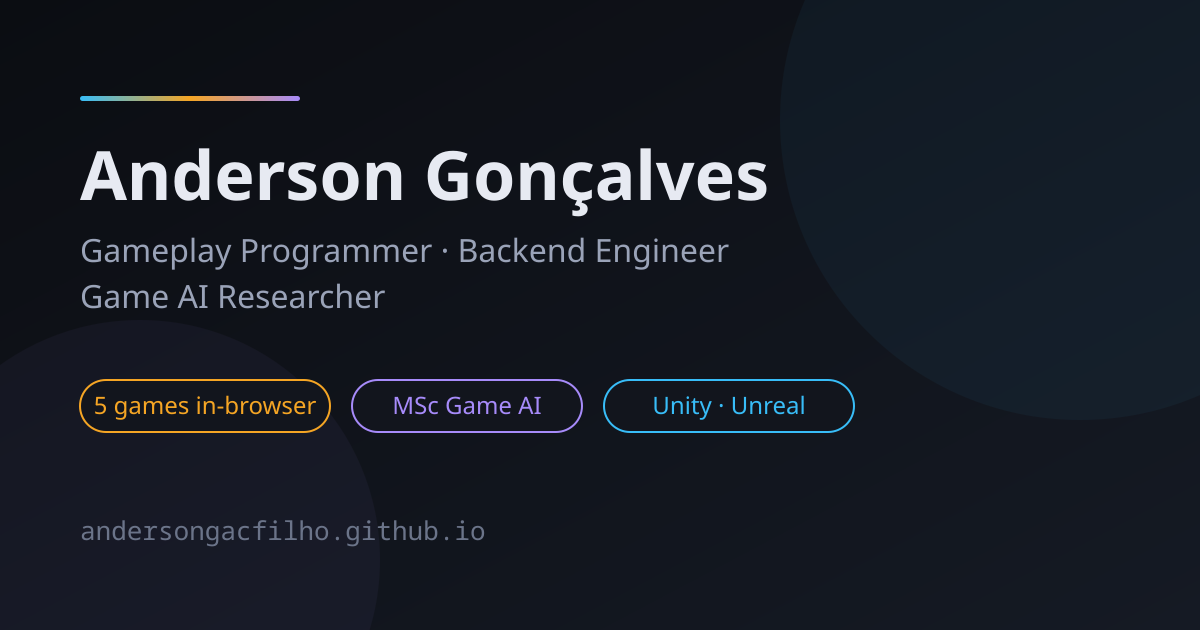
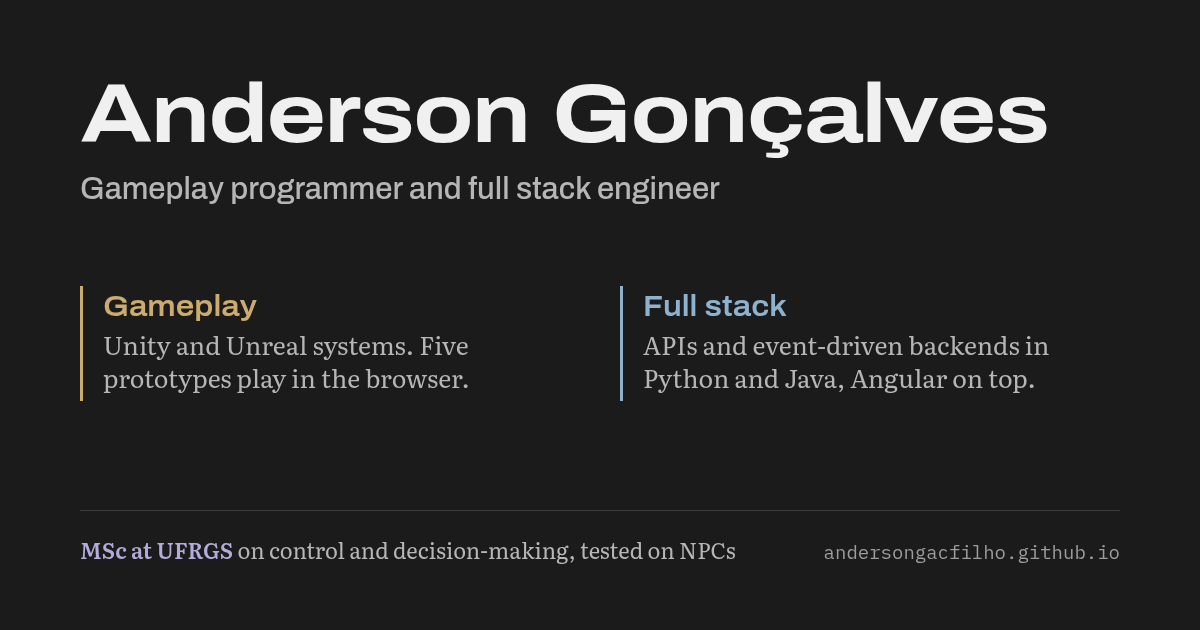
feat(og): the link preview reads for gameplay and for full stack
The old cover said "Backend Engineer · Game AI Researcher", never full
stack, and still had the rounded pills, gradient and navy of the previous
identity. The new one gives gameplay and full stack two columns of the
same size in the track colours, with the MSc underneath, on the neutral
grey with Archivo, Literata and square corners.

It is now rendered from scripts/og-cover.html by a headless Chromium
(npm run render:og), reading tokens.css and the site fonts directly, and
the script fails if the PNG is not 1200x630. og:image:alt follows the new
wording; nothing else in the <head> changed.

diff --git a/scripts/og-cover.html b/scripts/og-cover.html
@@ -1,0 +1,129 @@
+<!doctype html>
+<!--
+  Fonte da public/og-cover.png, a prévia que o LinkedIn mostra quando alguém
+  cola o link. Não é página do site: o render-og-cover.mjs abre este arquivo
+  num Chromium headless em 1200×630 e salva a captura.
+
+  Tokens e fontes vêm direto de src/styles e public/fonts, por caminho
+  relativo. Trocou um hex no tokens.css, roda `npm run render:og` e a capa
+  acompanha.
+
+  Gameplay e full stack dividem a linha em duas colunas do mesmo tamanho,
+  porque a mesma prévia vai em candidatura das duas. A pesquisa vem embaixo,
+  como no hero.role, que põe o mestrado depois das duas funções.
+
+  Tema escuro fixado em data-theme: o headless pode anunciar preferência
+  clara, e a capa não pode depender disso.
+-->
+<html lang="en" data-theme="dark">
+<head>
+<meta charset="utf-8" />
+<link rel="stylesheet" href="../src/styles/tokens.css" />
+<style>
+  @font-face {
+    font-family: 'Archivo';
+    font-weight: 100 900;
+    font-stretch: 62% 125%;
+    src: url('../public/fonts/archivo-latin.woff2') format('woff2');
+  }
+  @font-face {
+    font-family: 'Literata';
+    font-weight: 200 900;
+    src: url('../public/fonts/literata-latin.woff2') format('woff2');
+  }
+  @font-face {
+    font-family: 'IBM Plex Mono';
+    font-weight: 400;
+    src: url('../public/fonts/ibm-plex-mono-latin-400.woff2') format('woff2');
+  }
+
+  html, body { margin: 0; }
+  body {
+    width: 1200px;
+    height: 630px;
+    box-sizing: border-box;
+    padding: 72px 80px 64px;
+    display: flex;
+    flex-direction: column;
+    background: var(--bg);
+    color: var(--text);
+    font-family: var(--font);
+    -webkit-font-smoothing: antialiased;
+    overflow: hidden;
+  }
+
+  h1 {
+    margin: 0 0 14px;
+    font-family: var(--display);
+    font-size: 84px;
+    font-stretch: 118%;
+    font-weight: 700;
+    letter-spacing: -0.015em;
+    line-height: 1.02;
+  }
+  .role {
+    margin: 0;
+    font-family: var(--display);
+    font-size: 31px;
+    font-weight: 500;
+    color: var(--text-dim);
+  }
+
+  /* o mesmo filete de 3px das trilhas da home: canto vivo, cor da trilha */
+  .tracks {
+    display: grid;
+    grid-template-columns: 1fr 1fr;
+    gap: 0 40px;
+    margin-top: 64px;
+  }
+  .track {
+    border-left: 3px solid var(--track);
+    padding: 4px 0 6px 20px;
+  }
+  .track strong {
+    display: block;
+    margin-bottom: 6px;
+    font-family: var(--display);
+    font-size: 30px;
+    font-stretch: 108%;
+    font-weight: 600;
+    color: var(--track);
+  }
+  .track span { font-size: 25px; line-height: 1.35; color: var(--text-dim); }
+
+  .foot {
+    margin-top: auto;
+    display: flex;
+    justify-content: space-between;
+    align-items: baseline;
+    gap: 40px;
+    padding-top: 22px;
+    border-top: 1px solid var(--border);
+  }
+  /* uma linha só: quebrada, deixava "NPCs" sozinho embaixo */
+  .research { font-size: 22px; white-space: nowrap; color: var(--text-dim); }
+  .research b { font-weight: 600; color: var(--research); }
+  .url { font-family: var(--mono); font-size: 19px; white-space: nowrap; color: var(--text-faint); }
+</style>
+</head>
+<body>
+  <h1>Anderson Gonçalves</h1>
+  <p class="role">Gameplay programmer and full stack engineer</p>
+
+  <div class="tracks">
+    <p class="track" style="--track: var(--gamedev)">
+      <strong>Gameplay</strong>
+      <span>Unity and Unreal systems. Five prototypes play in the browser.</span>
+    </p>
+    <p class="track" style="--track: var(--fullstack)">
+      <strong>Full stack</strong>
+      <span>APIs and event-driven backends in Python and Java, Angular on top.</span>
+    </p>
+  </div>
+
+  <div class="foot">
+    <span class="research"><b>MSc at UFRGS</b> on control and decision-making, tested on NPCs</span>
+    <span class="url">andersongacfilho.github.io</span>
+  </div>
+</body>
+</html>
